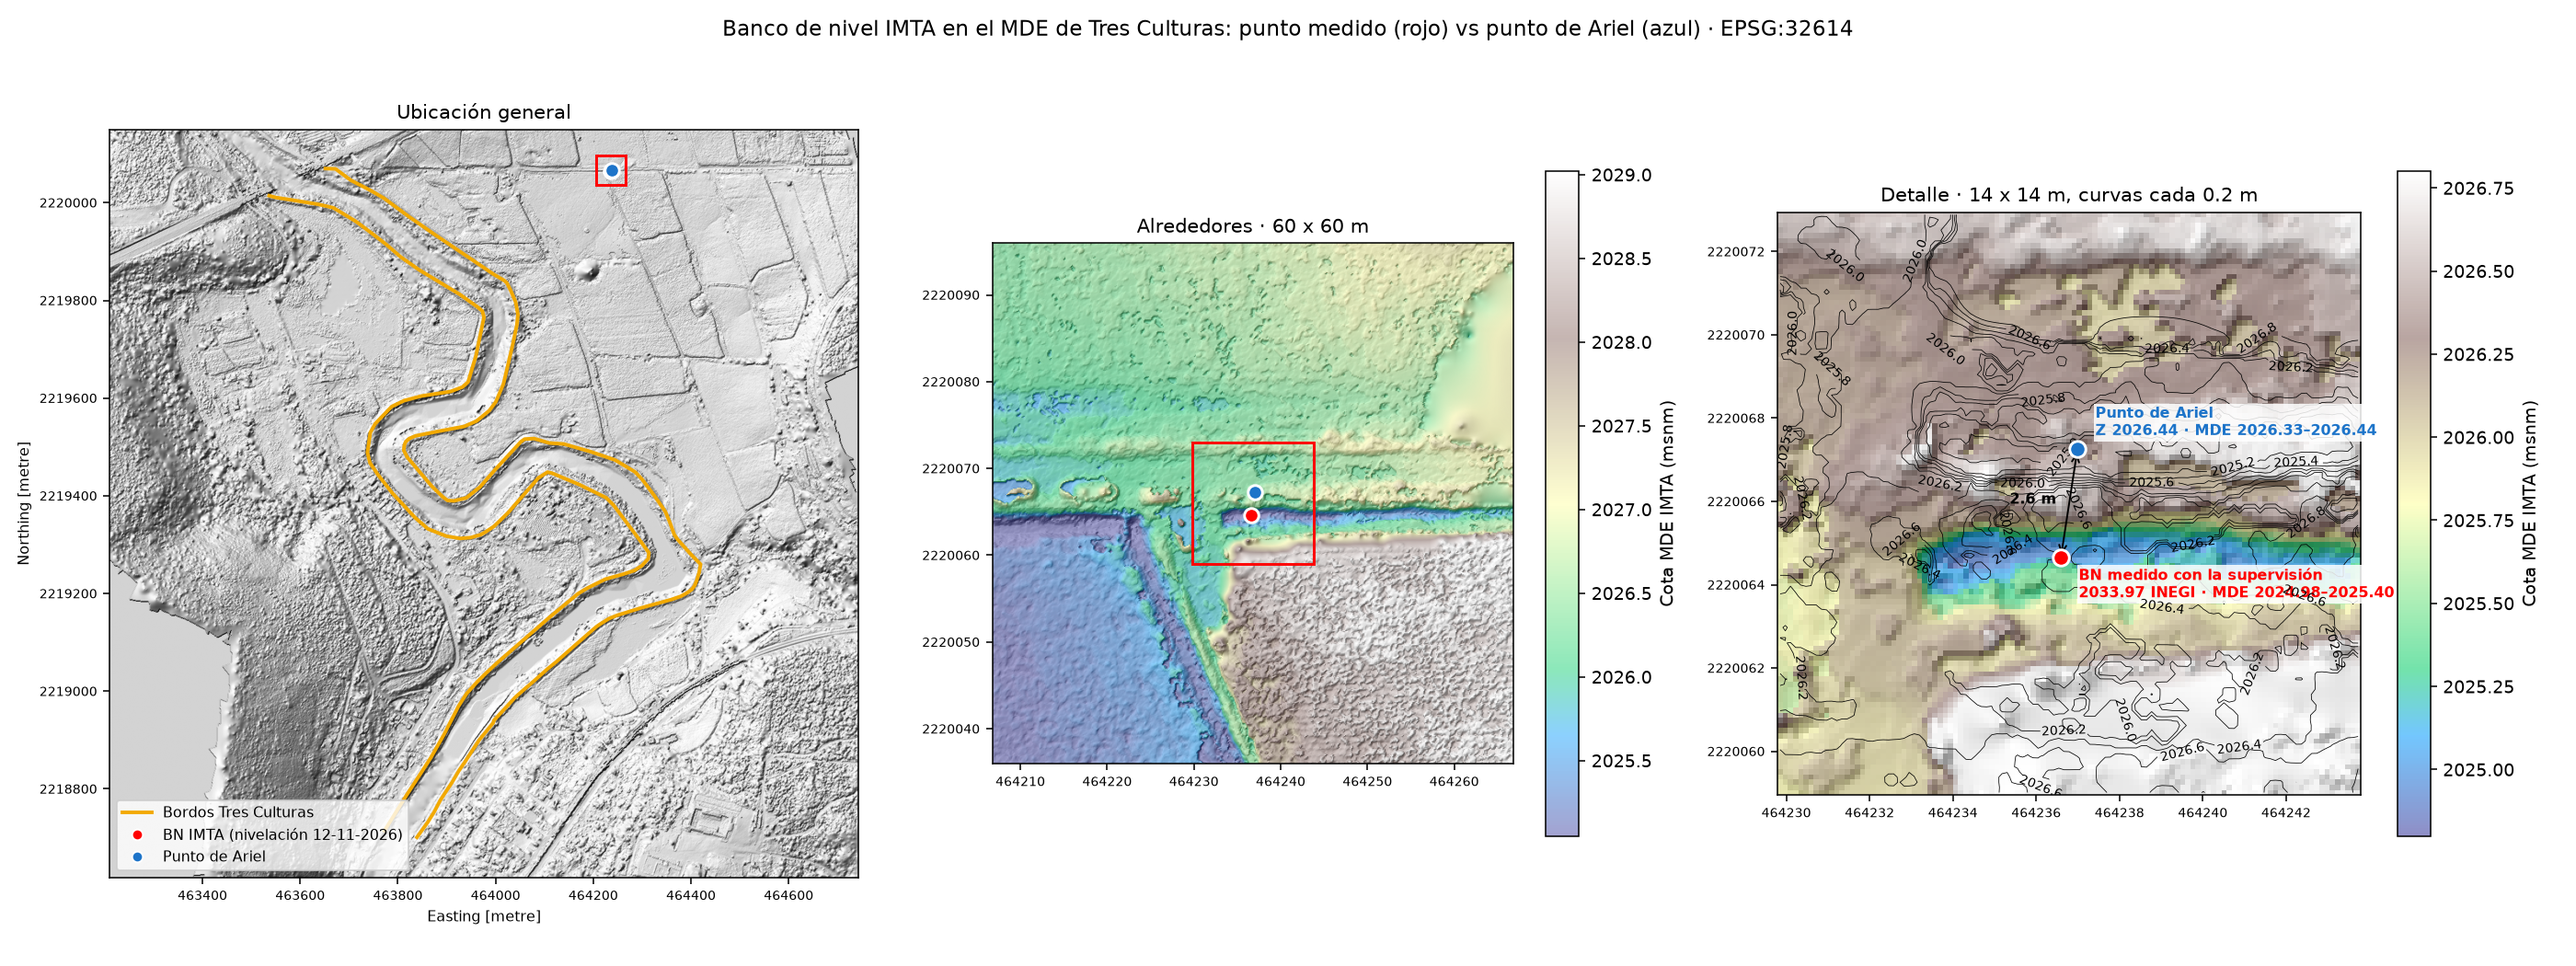
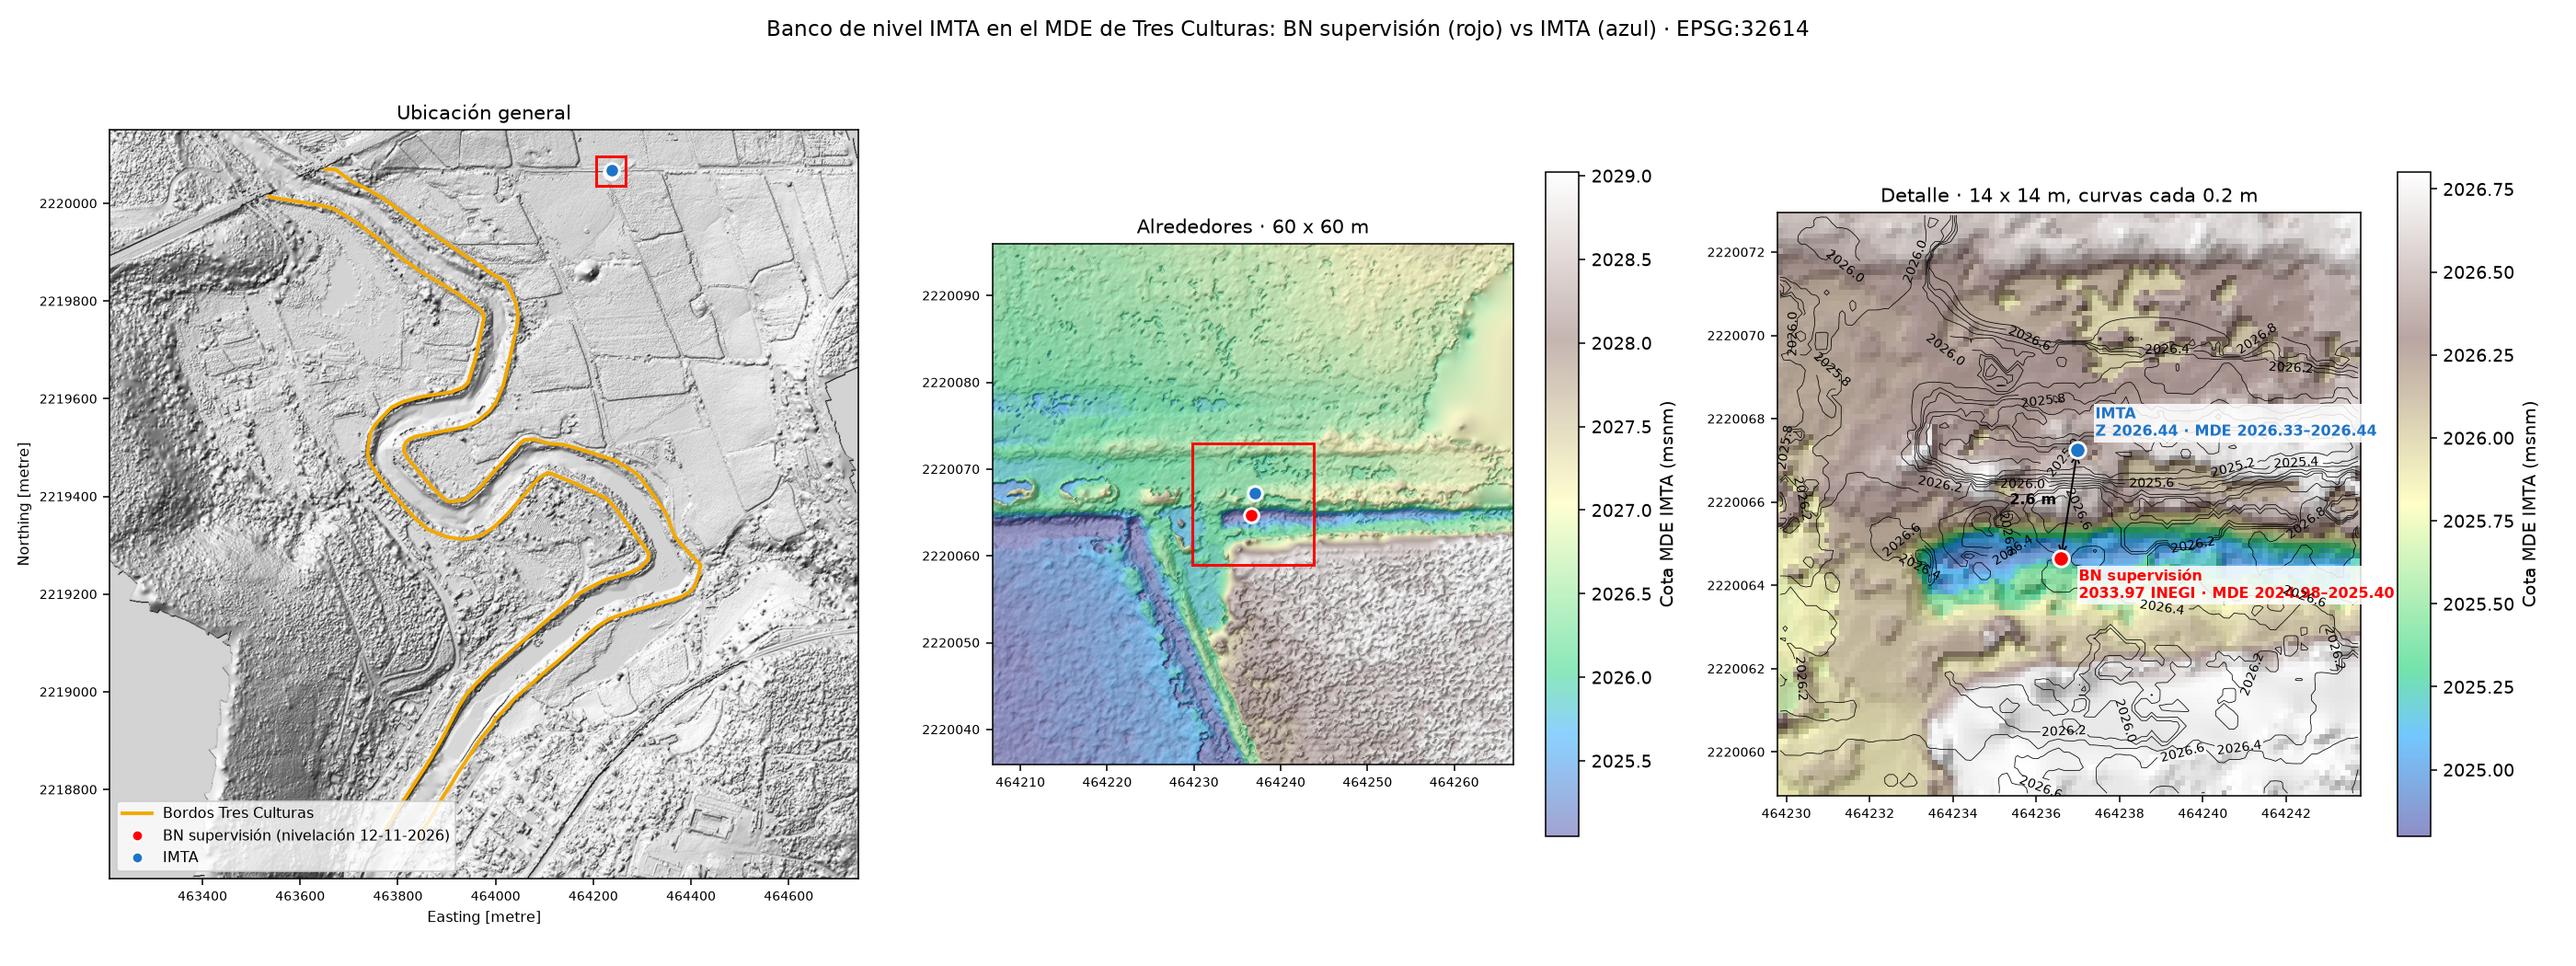
Banco IMTA: puntos IMTA (azul) y BN supervisión (rojo)

diff --git a/banco_imta.py b/banco_imta.py
@@ -8,7 +8,7 @@ from rasterio.windows import from_bounds
 
 mdt, gpkg, png = sys.argv[1:4]
 BN = (464236.5909, 2220064.6431)      # nivelación 12-11-2026, 2033.97 INEGI
-AR = (464236.99, 2220067.25)          # punto de Ariel, Z 2026.44
+AR = (464236.99, 2220067.25)          # punto IMTA, Z 2026.44
 C = ((BN[0] + AR[0]) / 2, (BN[1] + AR[1]) / 2)
 bordo = gpd.read_file(gpkg, layer="bordo")
 
@@ -30,10 +30,10 @@ def puntos(ax, s=9, txt=True):
     ax.plot(*BN, "o", ms=s, mfc="red", mec="w", mew=1.5, zorder=5)
     ax.plot(*AR, "o", ms=s, mfc="#1d74c9", mec="w", mew=1.5, zorder=5)
     if txt:
-        ax.annotate("BN medido con la supervisión\n2033.97 INEGI · MDE 2024.98–2025.40", BN, xytext=(10, -22),
+        ax.annotate("BN supervisión\n2033.97 INEGI · MDE 2024.98–2025.40", BN, xytext=(10, -22),
                     textcoords="offset points", fontsize=8, color="red", weight="bold",
                     bbox=dict(fc="white", ec="none", alpha=0.85, pad=1))
-        ax.annotate("Punto de Ariel\nZ 2026.44 · MDE 2026.33–2026.44", AR, xytext=(10, 8),
+        ax.annotate("IMTA\nZ 2026.44 · MDE 2026.33–2026.44", AR, xytext=(10, 8),
                     textcoords="offset points", fontsize=8, color="#1d74c9", weight="bold",
                     bbox=dict(fc="white", ec="none", alpha=0.85, pad=1))
 
@@ -50,8 +50,8 @@ with rasterio.open(mdt) as r:
     bordo.plot(ax=a, color="#f2a900", lw=2)
     a.plot([], [], color="#f2a900", lw=2, label="Bordos Tres Culturas")
     puntos(a, 8, False)
-    a.plot([], [], "o", mfc="red", mec="w", label="BN IMTA (nivelación 12-11-2026)")
-    a.plot([], [], "o", mfc="#1d74c9", mec="w", label="Punto de Ariel")
+    a.plot([], [], "o", mfc="red", mec="w", label="BN supervisión (nivelación 12-11-2026)")
+    a.plot([], [], "o", mfc="#1d74c9", mec="w", label="IMTA")
     a.add_patch(Rectangle((C[0] - 30, C[1] - 30), 60, 60, fill=False, ec="red", lw=1.5))
     a.legend(loc="lower left", fontsize=8)
     a.set_title("Ubicación general", fontsize=11)
@@ -83,6 +83,6 @@ with rasterio.open(mdt) as r:
 for a in axs:
     a.ticklabel_format(useOffset=False, style="plain")
     a.tick_params(labelsize=7)
-fig.suptitle("Banco de nivel IMTA en el MDE de Tres Culturas: punto medido (rojo) vs punto de Ariel (azul) · EPSG:32614", fontsize=12)
+fig.suptitle("Banco de nivel IMTA en el MDE de Tres Culturas: BN supervisión (rojo) vs IMTA (azul) · EPSG:32614", fontsize=12)
 fig.tight_layout()
 fig.savefig(png, dpi=140)
